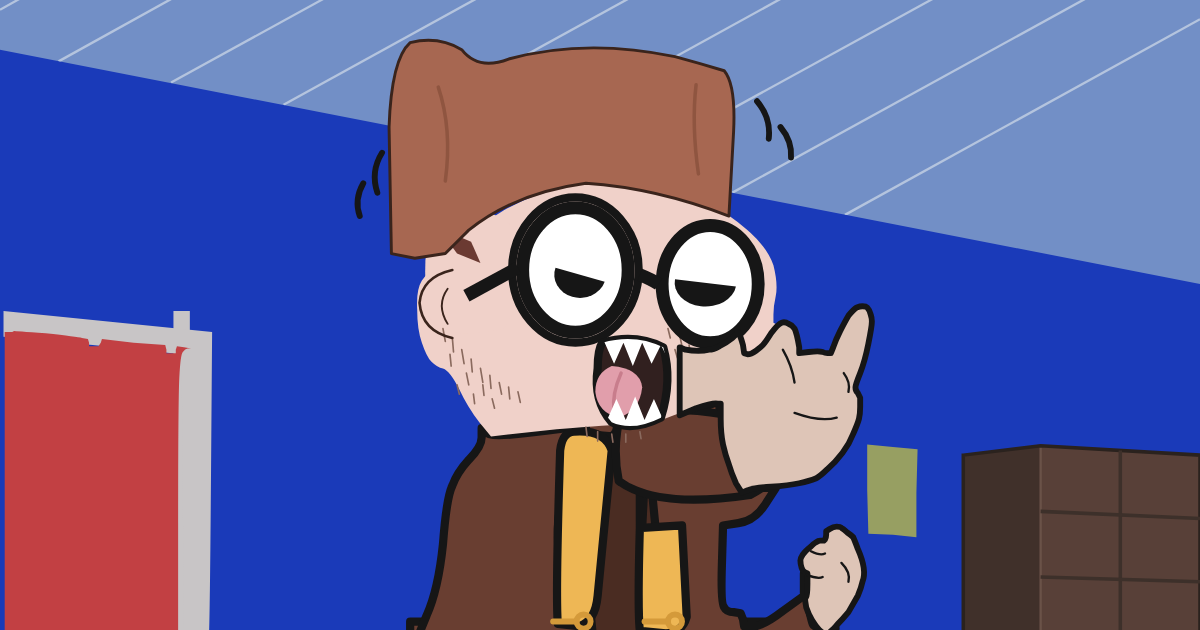
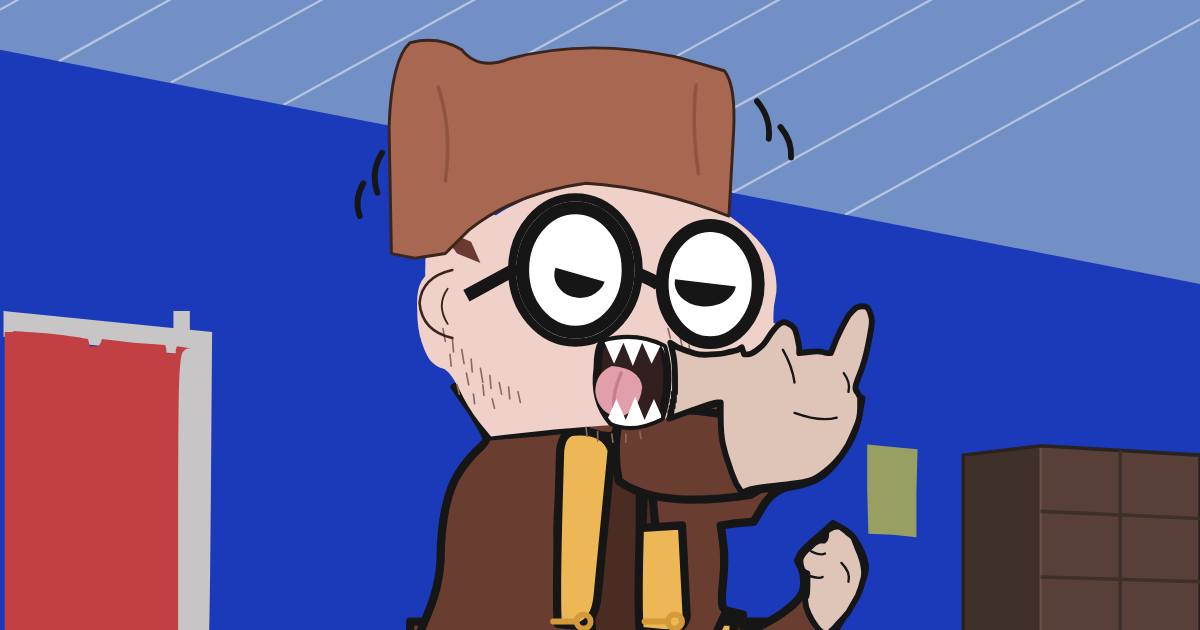
ghost: fix jacket/arm — it was two disconnected pieces missing the whole diagonal raised-arm mass; fix hand mask bridging into the glasses lens and mouth; widen hand box to follow the true diagonal wrist boundary instead of cutting it with a flat vertical edge

diff --git a/tipsy/ghost/index.html b/tipsy/ghost/index.html
@@ -4,18 +4,18 @@
 <meta charset="utf-8">
 <meta name="viewport" content="width=device-width,initial-scale=1">
 <title>Tipsy Turtles_Chapter 2 Snippet — on chain</title>
-<meta name="description" content="Tipsy Turtles_Chapter 2 Snippet redrawn as vector art and stored entirely inside its minting transaction — 12,879 bytes, no IPFS, no gateway.">
+<meta name="description" content="Tipsy Turtles_Chapter 2 Snippet redrawn as vector art and stored entirely inside its minting transaction — 13,980 bytes, no IPFS, no gateway.">
 <link rel="canonical" href="https://beacnpool.github.io/ABCDE/tipsy/ghost/">
 <meta property="og:type" content="website">
 <meta property="og:url" content="https://beacnpool.github.io/ABCDE/tipsy/ghost/">
 <meta property="og:title" content="Tipsy Turtles_Chapter 2 Snippet — on chain">
-<meta property="og:description" content="Tipsy Turtles_Chapter 2 Snippet redrawn as vector art and stored entirely inside its minting transaction — 12,879 bytes, no IPFS, no gateway.">
+<meta property="og:description" content="Tipsy Turtles_Chapter 2 Snippet redrawn as vector art and stored entirely inside its minting transaction — 13,980 bytes, no IPFS, no gateway.">
 <meta property="og:image" content="https://beacnpool.github.io/ABCDE/tipsy/ghost/og.png">
 <meta property="og:image:width" content="1200">
 <meta property="og:image:height" content="630">
 <meta name="twitter:card" content="summary_large_image">
 <meta name="twitter:title" content="Tipsy Turtles_Chapter 2 Snippet — on chain">
-<meta name="twitter:description" content="Tipsy Turtles_Chapter 2 Snippet redrawn as vector art and stored entirely inside its minting transaction — 12,879 bytes, no IPFS, no gateway.">
+<meta name="twitter:description" content="Tipsy Turtles_Chapter 2 Snippet redrawn as vector art and stored entirely inside its minting transaction — 13,980 bytes, no IPFS, no gateway.">
 <meta name="twitter:image" content="https://beacnpool.github.io/ABCDE/tipsy/ghost/og.png">
 <style>
 *{box-sizing:border-box}
@@ -100,7 +100,7 @@ footer{margin-top:44px;padding-top:16px;border-top:1px solid var(--line);
      <code>ipfs://QmZM9p5Kgqtj…</code> — and a pointer is only as permanent as
      whoever keeps paying to pin it.</p>
   <p class="sub">On the right is the same frame redrawn as vector art and written
-     <b>into the minting transaction itself</b>: 8,789 bytes of SVG, no gateway,
+     <b>into the minting transaction itself</b>: 9,589 bytes of SVG, no gateway,
      no pin, no bill.</p>
 
   <div class="vs">
@@ -123,9 +123,9 @@ footer{margin-top:44px;padding-top:16px;border-top:1px solid var(--line);
         <span class="tag chain">stored on Cardano</span><br>
         <b>Ours.</b> Decoded from the same base64 string that rides in the transaction
         below. Nothing was fetched to draw it.
-        <div class="bar"><i style="width:78.6%"></i></div>
-        <span style="color:var(--dim)">12,879 of 16,384 bytes
-        &middot; 79% of one transaction</span>
+        <div class="bar"><i style="width:85.3%"></i></div>
+        <span style="color:var(--dim)">13,980 of 16,384 bytes
+        &middot; 85% of one transaction</span>
       </div>
     </div>
   </div>
@@ -157,8 +157,8 @@ footer{margin-top:44px;padding-top:16px;border-top:1px solid var(--line);
     <tr><td>closes</td><td>24 Aug 2026 13:04 UTC</td></tr>
     <tr><td>asset name</td><td><code>GHOST&lt;8 hex&gt;</code> — derived from the
         UTxO you spend, so every mint is a distinct token</td></tr>
-    <tr><td>image</td><td><code>8,789 bytes</code> of SVG, base64 in CIP-25 metadata</td></tr>
-    <tr><td>you pay</td><td><b>~0.72 ADA</b> network fee, plus
+    <tr><td>image</td><td><code>9,589 bytes</code> of SVG, base64 in CIP-25 metadata</td></tr>
+    <tr><td>you pay</td><td><b>~0.77 ADA</b> network fee, plus
         <b>~1.18 ADA</b> min-UTxO that stays in your wallet</td></tr>
     <tr><td>creator takes</td><td><b>nothing</b> — there is no payment address in this
         transaction</td></tr>
@@ -190,7 +190,7 @@ footer{margin-top:44px;padding-top:16px;border-top:1px solid var(--line);
     transaction · <a href="../">all three frames</a></footer>
 
 </div>
-<script id="art-src" type="image/svg+xml"><svg xmlns="http://www.w3.org/2000/svg" viewBox="0 0 1024 576"><defs><clipPath id="cc"><path d="M0 0h1024v262L0 62z"/></clipPath><path id="fp" d="M506 174Q507 173 526 174Q544 174 568 180Q592 187 606 194Q620 201 638 216Q655 231 660 246Q664 262 662 272Q660 281 660 288L660 295L662 296L664 296L664 346L663 396L644 400L625 405L625 414L625 422L621 410Q617 397 616 381L615 365L608 365Q600 365 575 374Q550 384 540 382Q531 381 475 386L419 392L409 380Q399 367 392 352Q384 336 378 334Q373 333 368 328Q364 324 360 312Q356 301 356 284Q355 267 360 259Q366 251 368 250L369 248L376 257L383 266L390 266Q397 266 402 262Q408 257 408 250L408 243L404 242L400 242L403 228Q406 213 430 199Q455 185 480 180Q506 174 506 174Z"/><path id="mp" d="M514 312Q542 304 566 316Q574 344 564 376Q540 388 522 380Q506 362 510 334Q510 318 514 312Z"/><clipPath id="mc"><use href="#mp"/></clipPath><clipPath id="ll"><ellipse cx="491" cy="250" rx="42" ry="50"/></clipPath><clipPath id="rl"><ellipse cx="606" cy="262" rx="38" ry="47"/></clipPath></defs><path d="M0 0h1024v576H0z" fill="#1a3ab9"/><path d="M0 566h181v10H0z" fill="#c8c5c6"/><path d="M0 566h152v10H0z" fill="#c24043"/><path d="M148 285h14v290h-14z" fill="#c8c5c6"/><path d="M0 0h1024v262L0 62z" fill="#728fc6"/><g fill="none" stroke="#b4c4de" stroke-width="2" clip-path="url(#cc)"><path d="M0 28 50 0"/><path d="M50 72 180 0"/><path d="M146 90 310 0"/><path d="M242 109 440 0"/><path d="M337 128 570 0"/><path d="M433 147 700 0"/><path d="M529 165 830 0"/><path d="M625 184 960 0"/><path d="M721 203 1024 36"/></g><path d="M3 286L3 285L92 294L181 303L180 432Q179 562 178 567L178 572L168 572L157 572L156 447L155 322L79 314L3 307L3 296Q3 286 3 286Z" fill="#c8c5c6"/><path d="M12 302Q12 302 39 304Q66 307 70 308L75 309L76 312L76 315L80 315L84 315L86 312L87 309L114 312L141 314L142 318L142 321L146 321L150 321L150 318L151 315L157 316L163 317L160 317Q158 317 156 320Q154 322 153 342Q152 362 152 466L152 571L78 571L4 571L4 437L4 303L8 303Q11 303 12 302Z" fill="#c24043"/><path d="M822 408 888 400 888 576 822 576Z" fill="#40302a"/><path d="M888 400 1024 408 1024 576 888 576Z" fill="#584038"/><path d="M888 400 888 576" fill="none" stroke="#6a5248" stroke-width="2"/><path d="M822 408 888 400 1024 408 1024 576 822 576Z" fill="none" stroke="#2a221e" stroke-width="3"/><g fill="none" stroke="#3d302a" stroke-width="3"><path d="M956 404 956 576"/><path d="M888 456 1024 462"/><path d="M888 512 1024 516"/></g><path d="M740 400L740 399L762 401L783 403L782 440L782 478L762 476L741 475L740 438Q740 400 740 400Z" fill="#979f62"/><g stroke="#161616" stroke-width="7" stroke-linejoin="round"><path d="M350 550h138v26H350z" fill="#693e31"/><path d="M486 550h32v26h-32z" fill="#eeb755"/><path d="M516 550h50v26h-50z" fill="#4a2c22"/><path d="M562 550h20v26h-20z" fill="#eeb755"/><path d="M578 550h28v26h-28z" fill="#4a2c22"/><path d="M602 550h28v26h-28z" fill="#eeb755"/><path d="M626 550h76v26h-76z" fill="#4a2c22"/><path d="M527 360L527 360L544 360L561 360L562 367L563 374L572 374Q582 374 598 368L614 362L614 380Q615 399 622 417L628 435L645 436L662 436L653 450Q644 464 630 466L617 468L616 502Q615 535 618 538Q620 542 626 542L632 543L634 548L635 554L643 554Q651 554 668 541L686 528L686 518L686 509L689 530Q692 550 694 553Q697 556 705 556L713 556L709 562L705 567L530 567L355 567L364 545Q374 523 378 484Q381 444 386 434Q390 423 400 412Q411 401 411 393L411 385L414 388Q416 391 426 391Q437 391 468 387L498 383L488 414Q477 444 476 471Q476 498 480 510L484 522L498 522L511 521L512 516L512 511L517 510L522 509L522 501L522 493L515 492L508 491L508 480Q508 468 513 446Q518 424 526 408Q534 392 534 384L534 376L522 373L510 370L516 370L521 370L524 366Q527 361 527 360Z" fill="#693e31"/><path d="M500 378Q513 374 526 380Q528 388 522 392L500 390Z" fill="#693e31"/><path d="M508 394L552 394 560 476 550 562 506 564 498 478Z" fill="#4a2c22"/><path d="M490 388Q516 386 522 404L510 528Q508 550 494 554L476 552Q474 528 478 404Q480 388 490 388Z" fill="#eeb755"/><path d="M546 392L574 394 572 432 550 430 548 470L582 468 586 546Q582 560 568 560L546 558Q544 540 546 470Z" fill="#eeb755"/><g fill="none" stroke="#d49a3a" stroke-width="5" stroke-linecap="round"><path d="M472 550h20"/><circle cx="498" cy="550" r="6"/></g><g fill="none" stroke="#d49a3a" stroke-width="5" stroke-linecap="round"><path d="M550 550h20"/><circle cx="576" cy="550" r="6"/></g><path d="M530 372Q620 362 668 392Q676 424 640 442Q560 454 528 430Q522 400 530 372Z" fill="#693e31"/><use href="#fp" fill="#f0d1c9" stroke="none"/><path d="M370 200Q358 240 366 290Q380 312 430 300Q452 268 444 220Q420 190 370 200Z" fill="#f0d1c9" stroke="none"/><ellipse cx="491" cy="250" rx="54" ry="62" fill="#f0d1c9"/><path d="M374 214L402 226 410 244 390 236Z" fill="#6b3a32" stroke="none"/><path d="M378 300l2 11M386 308l1 12M394 318l2 12M402 326l1 11M410 334l2 12M418 340l1 11M426 346l2 10M434 350l1 10M442 354l2 9M384 322l1 10M398 338l2 10M412 348l1 9M390 348l2 8M404 356l1 8M420 360l2 8M500 384l1 8M510 388l0 8M522 390l1 7M534 390l0 7M546 388l1 6M570 300l2 8M580 306l2 9M588 314l1 8M576 318l2 7" fill="none" stroke="#8a6a5e" stroke-width="1.4" stroke-linecap="round"/><path d="M514 312Q542 304 566 316Q574 344 564 376Q540 388 522 380Q506 362 510 334Q510 318 514 312Z" fill="#31201f"/><path d="M522 332Q546 334 548 350Q546 370 528 376Q510 372 508 354Q508 338 522 332Z" fill="#e19eab" stroke="none"/><path d="M530 338Q522 356 524 370" fill="none" stroke="#c87d8c" stroke-width="3" stroke-linecap="round"/><g clip-path="url(#mc)"><path d="M516 312 524 330 532 312 540 332 548 312 556 330 564 314 570 326 572 308 514 306Z" fill="#fff" stroke="none"/><path d="M518 378 526 360 534 378 542 358 550 378 558 360 566 378 570 368 570 384 516 384Z" fill="#fff" stroke="none"/></g></g><path d="M334 236L332 128Q334 70 350 56Q374 50 394 62Q408 80 434 70Q500 52 576 68Q598 74 618 80Q628 92 626 132L622 204Q560 180 500 176Q440 184 400 216L380 236 354 240 334 236Z" fill="#a76751" stroke="#3a241c" stroke-width="2.5" stroke-linejoin="round"/><g fill="none" stroke="#8f5540" stroke-width="3" stroke-linecap="round"><path d="M374 94q12 36 6 80"/><path d="M594 92q-4 34 2 76"/></g><path d="M386 250Q360 256 358 278Q360 302 386 308" fill="none" stroke="#3a241c" stroke-width="2.2" stroke-linecap="round"/><g fill="none" stroke="#3a241c" stroke-width="1.6" stroke-linecap="round"><path d="M382 266Q372 280 382 296"/></g><ellipse cx="491" cy="250" rx="44" ry="52" fill="#fff"/><ellipse cx="606" cy="262" rx="40" ry="49" fill="#fff"/><g clip-path="url(#ll)" fill="#161616" stroke="none"><path d="M474 248A20 18 0 0 0 516 260Z"/></g><g clip-path="url(#rl)" fill="#161616" stroke="none"><path d="M576 258A26 20 0 0 0 628 264Z"/></g><g fill="none" stroke="#161616" stroke-width="11"><ellipse cx="491" cy="250" rx="45" ry="53"/><ellipse cx="606" cy="262" rx="41" ry="50"/><path d="M546 254q10 4 16 8"/><path d="M442 248 398 272"/></g><path d="M731 282Q734 281 736 281Q739 281 740 282Q742 284 743 288Q744 291 744 294Q744 298 741 313Q738 328 734 338Q730 348 730 350Q730 353 732 355Q733 357 734 359Q734 361 734 367Q734 373 733 377Q732 381 728 390Q725 398 719 406Q713 414 706 420Q700 426 696 428Q691 430 682 432Q673 434 658 435Q642 436 638 438L633 440L628 432Q624 423 622 416Q619 408 617 399Q615 390 615 377L615 364L612 364Q609 363 594 368L580 374L580 345L580 316L585 318Q590 319 596 319Q601 319 605 318Q609 318 614 315Q620 312 625 308L630 303L631 305Q632 307 634 314L635 321L638 322Q641 322 645 319Q649 316 651 314Q653 312 658 304Q664 296 667 295Q670 294 673 296Q676 297 678 300Q679 302 680 306Q681 310 682 316L682 321L690 320Q699 319 702 320Q704 321 706 321L709 321L711 316Q713 310 717 302Q721 294 724 289Q728 284 731 282Z" fill="#dec5b7" stroke="#161616" stroke-width="5" stroke-linejoin="round"/><g fill="none" stroke="#161616" stroke-width="2" stroke-linecap="round"><path d="M668 318q8 14 10 28"/><path d="M720 338q6 8 4 16"/><path d="M678 372q22 8 36 4"/></g><path d="M708 471Q711 469 714 469Q717 469 718 470Q720 471 723 474Q726 476 728 478Q729 480 732 488Q736 497 737 504Q738 511 736 516Q735 521 732 528Q728 535 724 542Q719 548 715 552Q711 557 708 559L706 561L704 560Q702 560 699 557Q696 554 693 549Q690 544 688 538Q687 532 687 531Q687 530 688 529Q689 528 689 518L689 509L687 508Q685 507 684 504Q683 501 683 498Q683 496 685 493Q687 490 692 486Q696 482 697 482Q698 481 700 481L703 481L704 480Q705 478 705 476L705 473L708 471Z" fill="#dec5b7" stroke="#161616" stroke-width="5" stroke-linejoin="round"/><g fill="none" stroke="#161616" stroke-width="2" stroke-linecap="round"><path d="M692 490q8 4 12 2"/><path d="M688 510q10 4 14 2"/><path d="M718 500q8 8 6 16"/></g><g fill="none" stroke="#161616" stroke-width="5" stroke-linecap="round"><path d="M326 150q-10 16-4 34"/><path d="M310 176q-8 14-3 28"/><path d="M646 106q12 14 10 32"/><path d="M666 128q10 12 9 26"/></g></svg></script>
+<script id="art-src" type="image/svg+xml"><svg xmlns="http://www.w3.org/2000/svg" viewBox="0 0 1024 576"><defs><clipPath id="cc"><path d="M0 0h1024v262L0 62z"/></clipPath><path id="fp" d="M506 174Q507 173 526 174Q544 174 568 180Q592 187 606 194Q620 201 638 216Q655 231 660 246Q664 262 662 272Q660 281 660 288L660 295L662 296L664 296L664 346L663 396L644 400L625 405L625 414L625 422L621 410Q617 397 616 381L615 365L608 365Q600 365 575 374Q550 384 540 382Q531 381 475 386L419 392L409 380Q399 367 392 352Q384 336 378 334Q373 333 368 328Q364 324 360 312Q356 301 356 284Q355 267 360 259Q366 251 368 250L369 248L376 257L383 266L390 266Q397 266 402 262Q408 257 408 250L408 243L404 242L400 242L403 228Q406 213 430 199Q455 185 480 180Q506 174 506 174Z"/><path id="mp" d="M514 312Q542 304 566 316Q574 344 564 376Q540 388 522 380Q506 362 510 334Q510 318 514 312Z"/><clipPath id="mc"><use href="#mp"/></clipPath><clipPath id="ll"><ellipse cx="491" cy="250" rx="42" ry="50"/></clipPath><clipPath id="rl"><ellipse cx="606" cy="262" rx="38" ry="47"/></clipPath></defs><path d="M0 0h1024v576H0z" fill="#1a3ab9"/><path d="M0 566h181v10H0z" fill="#c8c5c6"/><path d="M0 566h152v10H0z" fill="#c24043"/><path d="M148 285h14v290h-14z" fill="#c8c5c6"/><path d="M0 0h1024v262L0 62z" fill="#728fc6"/><g fill="none" stroke="#b4c4de" stroke-width="2" clip-path="url(#cc)"><path d="M0 28 50 0"/><path d="M50 72 180 0"/><path d="M146 90 310 0"/><path d="M242 109 440 0"/><path d="M337 128 570 0"/><path d="M433 147 700 0"/><path d="M529 165 830 0"/><path d="M625 184 960 0"/><path d="M721 203 1024 36"/></g><path d="M3 286L3 285L92 294L181 303L180 432Q179 562 178 567L178 572L168 572L157 572L156 447L155 322L79 314L3 307L3 296Q3 286 3 286Z" fill="#c8c5c6"/><path d="M12 302Q12 302 39 304Q66 307 70 308L75 309L76 312L76 315L80 315L84 315L86 312L87 309L114 312L141 314L142 318L142 321L146 321L150 321L150 318L151 315L157 316L163 317L160 317Q158 317 156 320Q154 322 153 342Q152 362 152 466L152 571L78 571L4 571L4 437L4 303L8 303Q11 303 12 302Z" fill="#c24043"/><path d="M822 408 888 400 888 576 822 576Z" fill="#40302a"/><path d="M888 400 1024 408 1024 576 888 576Z" fill="#584038"/><path d="M888 400 888 576" fill="none" stroke="#6a5248" stroke-width="2"/><path d="M822 408 888 400 1024 408 1024 576 822 576Z" fill="none" stroke="#2a221e" stroke-width="3"/><g fill="none" stroke="#3d302a" stroke-width="3"><path d="M956 404 956 576"/><path d="M888 456 1024 462"/><path d="M888 512 1024 516"/></g><path d="M740 400L740 399L762 401L783 403L782 440L782 478L762 476L741 475L740 438Q740 400 740 400Z" fill="#979f62"/><g stroke="#161616" stroke-width="7" stroke-linejoin="round"><path d="M350 550h138v26H350z" fill="#693e31"/><path d="M486 550h32v26h-32z" fill="#eeb755"/><path d="M516 550h50v26h-50z" fill="#4a2c22"/><path d="M562 550h20v26h-20z" fill="#eeb755"/><path d="M578 550h28v26h-28z" fill="#4a2c22"/><path d="M602 550h28v26h-28z" fill="#eeb755"/><path d="M626 550h76v26h-76z" fill="#4a2c22"/><path d="M518 331L526 320L528 320L531 320L532 326L534 331L540 329L547 327L548 330L549 333L554 331L558 329L560 331Q563 333 564 356L564 378L590 370L615 362L616 380Q616 399 624 419L631 439L658 436Q686 432 694 428Q703 425 716 409Q729 393 732 376L735 360L732 376Q729 392 718 407Q707 422 700 426Q694 431 678 434Q661 436 652 450L643 465L629 466L615 468L617 482Q619 497 617 516Q615 534 617 538Q619 541 626 542L634 544L634 552L635 559L648 554Q662 548 674 538Q686 528 686 520Q687 511 684 504L681 498L684 492Q688 487 700 477L711 467L718 471Q726 475 731 484Q736 492 738 502Q739 513 724 538Q709 564 704 568Q699 572 661 572L623 572L626 558L630 544L624 544L619 543L612 558L605 572L591 572L577 572L576 568L576 563L571 563L566 563L565 568L564 572L540 572L517 572L520 546L524 521L520 521Q516 521 506 523L496 525L494 539L493 553L500 552L506 552L507 556L508 560L500 562L491 564L490 568L489 572L421 572L353 572L364 546Q375 521 376 497Q376 473 380 454Q384 435 391 424Q398 413 406 405Q415 397 415 394Q415 391 402 370L388 350L403 371L418 392L454 389Q491 386 492 384L493 383L496 384L499 386L489 410Q479 435 477 449Q475 463 476 482Q477 502 481 512L485 523L499 522L513 521L513 517L513 513L518 511Q523 509 526 499L530 489L519 490L508 491L511 464Q514 438 525 414Q536 390 546 387L555 384L554 378L553 371L545 375L537 379L536 374L535 370L528 373L520 376L524 368L527 360L536 362L545 364L548 361L551 358L550 352Q549 347 543 343Q537 339 523 340L509 342L518 331Z" fill="#693e31"/><path d="M500 378Q513 374 526 380Q528 388 522 392L500 390Z" fill="#693e31"/><path d="M508 394L552 394 560 476 550 562 506 564 498 478Z" fill="#4a2c22"/><path d="M490 388Q516 386 522 404L510 528Q508 550 494 554L476 552Q474 528 478 404Q480 388 490 388Z" fill="#eeb755"/><path d="M546 392L574 394 572 432 550 430 548 470L582 468 586 546Q582 560 568 560L546 558Q544 540 546 470Z" fill="#eeb755"/><g fill="none" stroke="#d49a3a" stroke-width="5" stroke-linecap="round"><path d="M472 550h20"/><circle cx="498" cy="550" r="6"/></g><g fill="none" stroke="#d49a3a" stroke-width="5" stroke-linecap="round"><path d="M550 550h20"/><circle cx="576" cy="550" r="6"/></g><path d="M530 372Q620 362 668 392Q676 424 640 442Q560 454 528 430Q522 400 530 372Z" fill="#693e31"/><use href="#fp" fill="#f0d1c9" stroke="none"/><path d="M370 200Q358 240 366 290Q380 312 430 300Q452 268 444 220Q420 190 370 200Z" fill="#f0d1c9" stroke="none"/><ellipse cx="491" cy="250" rx="54" ry="62" fill="#f0d1c9"/><path d="M374 214L402 226 410 244 390 236Z" fill="#6b3a32" stroke="none"/><path d="M378 300l2 11M386 308l1 12M394 318l2 12M402 326l1 11M410 334l2 12M418 340l1 11M426 346l2 10M434 350l1 10M442 354l2 9M384 322l1 10M398 338l2 10M412 348l1 9M390 348l2 8M404 356l1 8M420 360l2 8M500 384l1 8M510 388l0 8M522 390l1 7M534 390l0 7M546 388l1 6M570 300l2 8M580 306l2 9M588 314l1 8M576 318l2 7" fill="none" stroke="#8a6a5e" stroke-width="1.4" stroke-linecap="round"/><path d="M514 312Q542 304 566 316Q574 344 564 376Q540 388 522 380Q506 362 510 334Q510 318 514 312Z" fill="#31201f"/><path d="M522 332Q546 334 548 350Q546 370 528 376Q510 372 508 354Q508 338 522 332Z" fill="#e19eab" stroke="none"/><path d="M530 338Q522 356 524 370" fill="none" stroke="#c87d8c" stroke-width="3" stroke-linecap="round"/><g clip-path="url(#mc)"><path d="M516 312 524 330 532 312 540 332 548 312 556 330 564 314 570 326 572 308 514 306Z" fill="#fff" stroke="none"/><path d="M518 378 526 360 534 378 542 358 550 378 558 360 566 378 570 368 570 384 516 384Z" fill="#fff" stroke="none"/></g></g><path d="M334 236L332 128Q334 70 350 56Q374 50 394 62Q408 80 434 70Q500 52 576 68Q598 74 618 80Q628 92 626 132L622 204Q560 180 500 176Q440 184 400 216L380 236 354 240 334 236Z" fill="#a76751" stroke="#3a241c" stroke-width="2.5" stroke-linejoin="round"/><g fill="none" stroke="#8f5540" stroke-width="3" stroke-linecap="round"><path d="M374 94q12 36 6 80"/><path d="M594 92q-4 34 2 76"/></g><path d="M386 250Q360 256 358 278Q360 302 386 308" fill="none" stroke="#3a241c" stroke-width="2.2" stroke-linecap="round"/><g fill="none" stroke="#3a241c" stroke-width="1.6" stroke-linecap="round"><path d="M382 266Q372 280 382 296"/></g><ellipse cx="491" cy="250" rx="44" ry="52" fill="#fff"/><ellipse cx="606" cy="262" rx="40" ry="49" fill="#fff"/><g clip-path="url(#ll)" fill="#161616" stroke="none"><path d="M474 248A20 18 0 0 0 516 260Z"/></g><g clip-path="url(#rl)" fill="#161616" stroke="none"><path d="M576 258A26 20 0 0 0 628 264Z"/></g><g fill="none" stroke="#161616" stroke-width="11"><ellipse cx="491" cy="250" rx="45" ry="53"/><ellipse cx="606" cy="262" rx="41" ry="50"/><path d="M546 254q10 4 16 8"/><path d="M442 248 398 272"/></g><path d="M731 282Q734 281 736 281Q739 281 740 282Q742 284 743 288Q744 291 744 294Q744 298 741 313Q738 328 734 338Q730 348 730 350Q730 353 732 355Q733 357 734 359Q734 361 734 367Q734 373 733 377Q732 381 728 390Q724 400 718 408Q711 417 704 422Q697 428 690 430Q683 432 662 434Q642 436 638 438L633 440L628 432Q624 423 622 416Q619 408 617 399Q615 390 615 376L615 363L612 363Q609 363 590 370L571 377L572 374L572 371L572 371L573 371L573 369L573 367L574 367L574 367L574 364L574 362L574 362L575 362L575 358L575 355L576 355L576 355L576 342Q576 328 574 320L572 312L578 316Q585 319 592 321Q598 323 607 322Q616 322 622 320Q628 319 630 318L633 316L634 319L635 322L638 322Q641 322 645 319Q649 316 651 314Q653 312 658 304Q664 296 667 295Q670 294 673 296Q676 297 678 300Q679 302 680 306Q681 310 682 316L682 321L690 320Q699 319 702 320Q704 321 706 321L709 321L711 316Q713 310 717 302Q721 294 724 289Q728 284 731 282Z" fill="#dec5b7" stroke="#161616" stroke-width="5" stroke-linejoin="round"/><g fill="none" stroke="#161616" stroke-width="2" stroke-linecap="round"><path d="M668 318q8 14 10 28"/><path d="M720 338q6 8 4 16"/><path d="M678 372q22 8 36 4"/></g><path d="M708 471Q711 469 714 469Q717 469 718 470Q720 471 723 474Q726 476 728 478Q729 480 732 488Q736 497 737 504Q738 511 736 516Q735 521 732 528Q728 535 724 542Q719 548 715 552Q711 557 708 559L706 561L704 560Q702 560 699 557Q696 554 693 549Q690 544 688 538Q687 532 687 531Q687 530 688 529Q689 528 689 518L689 509L687 508Q685 507 684 504Q683 501 683 498Q683 496 685 493Q687 490 692 486Q696 482 697 482Q698 481 700 481L703 481L704 480Q705 478 705 476L705 473L708 471Z" fill="#dec5b7" stroke="#161616" stroke-width="5" stroke-linejoin="round"/><g fill="none" stroke="#161616" stroke-width="2" stroke-linecap="round"><path d="M692 490q8 4 12 2"/><path d="M688 510q10 4 14 2"/><path d="M718 500q8 8 6 16"/></g><g fill="none" stroke="#161616" stroke-width="5" stroke-linecap="round"><path d="M326 150q-10 16-4 34"/><path d="M310 176q-8 14-3 28"/><path d="M646 106q12 14 10 32"/><path d="M666 128q10 12 9 26"/></g></svg></script>
 <script type="module">
 const ANCHOR_SLOT = 193727336, ANCHOR_UNIX = 1785293627;
 const DEADLINE_SLOT = 196010382, TICKER = 'GHOST';

diff --git a/tipsy/index.html b/tipsy/index.html
@@ -4,18 +4,18 @@
 <meta charset="utf-8">
 <meta name="viewport" content="width=device-width,initial-scale=1">
 <title>Tipsy Turtles, on chain</title>
-<meta name="description" content="Three Tipsy Turtles frames redrawn as vector art and stored entirely inside their minting transactions — 34.4 kB of chain against 4.1 MB of pinned PNG.">
+<meta name="description" content="Three Tipsy Turtles frames redrawn as vector art and stored entirely inside their minting transactions — 35.5 kB of chain against 4.1 MB of pinned PNG.">
 <link rel="canonical" href="https://beacnpool.github.io/ABCDE/tipsy/">
 <meta property="og:type" content="website">
 <meta property="og:url" content="https://beacnpool.github.io/ABCDE/tipsy/">
 <meta property="og:title" content="Tipsy Turtles, on chain">
-<meta property="og:description" content="Three Tipsy Turtles frames redrawn as vector art and stored entirely inside their minting transactions — 34.4 kB of chain against 4.1 MB of pinned PNG.">
+<meta property="og:description" content="Three Tipsy Turtles frames redrawn as vector art and stored entirely inside their minting transactions — 35.5 kB of chain against 4.1 MB of pinned PNG.">
 <meta property="og:image" content="https://beacnpool.github.io/ABCDE/tipsy/og.png">
 <meta property="og:image:width" content="1200">
 <meta property="og:image:height" content="630">
 <meta name="twitter:card" content="summary_large_image">
 <meta name="twitter:title" content="Tipsy Turtles, on chain">
-<meta name="twitter:description" content="Three Tipsy Turtles frames redrawn as vector art and stored entirely inside their minting transactions — 34.4 kB of chain against 4.1 MB of pinned PNG.">
+<meta name="twitter:description" content="Three Tipsy Turtles frames redrawn as vector art and stored entirely inside their minting transactions — 35.5 kB of chain against 4.1 MB of pinned PNG.">
 <meta name="twitter:image" content="https://beacnpool.github.io/ABCDE/tipsy/og.png">
 <style>
 *{box-sizing:border-box}
@@ -112,7 +112,7 @@ footer{margin-top:44px;padding-top:16px;border-top:1px solid var(--line);
      it. Each of these is the same frame redrawn as vector art and written
      <b>into the minting transaction itself</b>. No gateway, no pin, no bill.</p>
   <p class="sub">Together that is <b>4.1 MB</b> of pinned PNG on one side
-     and <b>34.4 kB</b> of transaction on the other. Open any of them: the
+     and <b>35.5 kB</b> of transaction on the other. Open any of them: the
      left panel is fetched live from your gateway, the right is decoded from the chain.</p>
 
   <div class="cards">
@@ -129,7 +129,7 @@ footer{margin-top:44px;padding-top:16px;border-top:1px solid var(--line);
               alt="Tipsy Turtles_Chapter 2 Snippet" loading="lazy"></span>
         <span class="meta"><b>Tipsy Turtles_Chapter 2 Snippet</b>The hardest of the three. The bird is constructed (middle finger up, knuckles on the fist), not traced; temple hair, clipped pupils, clean hat.
           <span class="ratio"><span>their PNG <b>1.49 MB</b></span>
-          <span>our transaction <b>12.9 kB</b></span></span>
+          <span>our transaction <b>14.0 kB</b></span></span>
         </span>
       </a>
       <a class="card" href="vote/">
